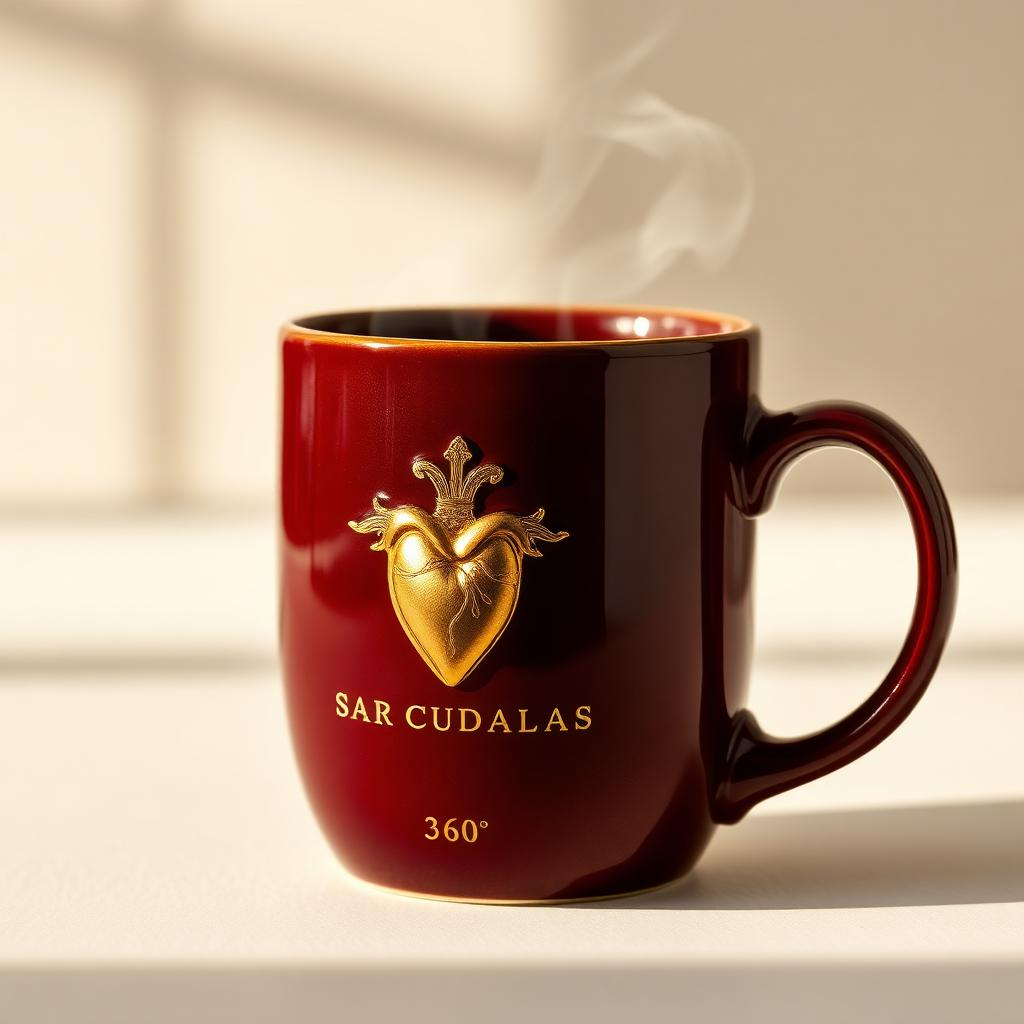
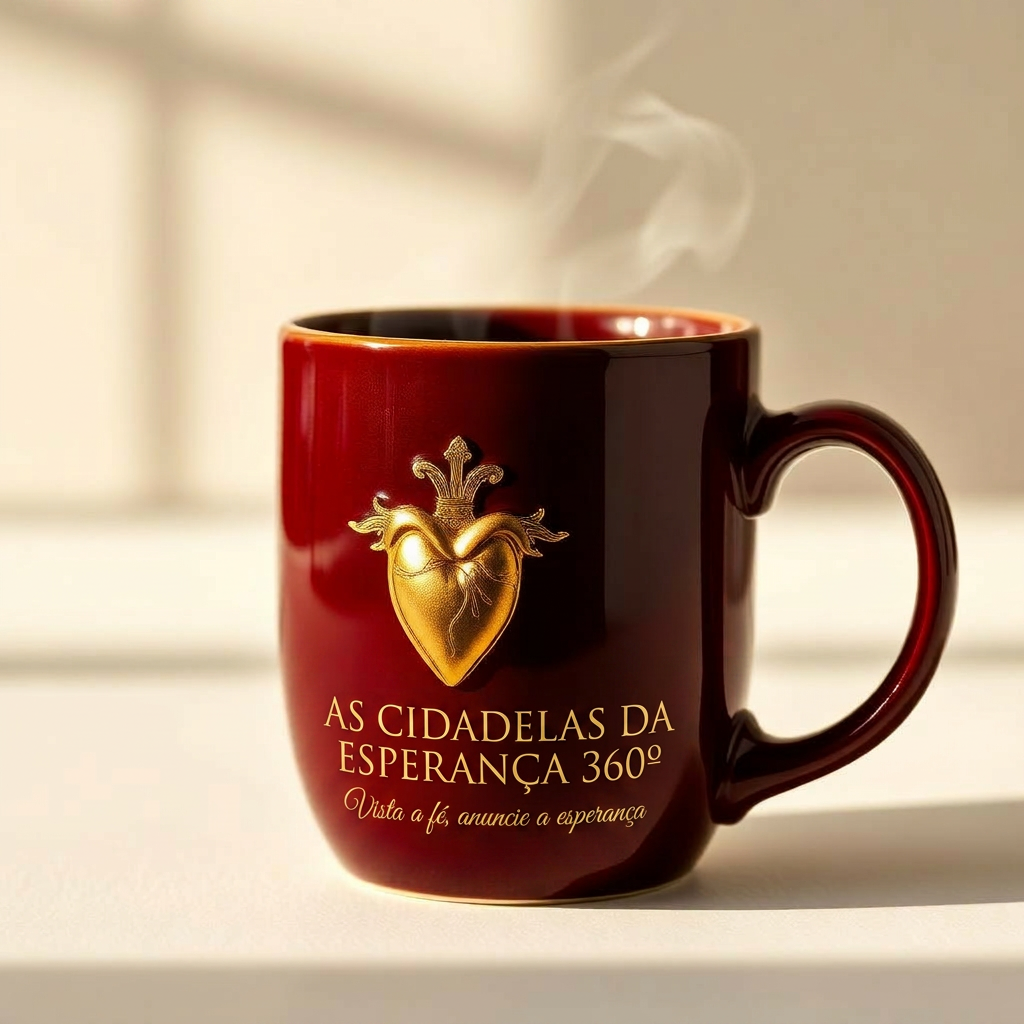
Changes

Changed region(s): [[0.3125, 0.6562, 0.6562, 0.8438], [0.3438, 0.4062, 0.5625, 0.6562]]

diff --git a/src/routes/loja.tsx b/src/routes/loja.tsx
@@ -10,18 +10,8 @@ import camisaOceania from "@/assets/produto-camisa-oceania.jpg";
 import bone from "@/assets/produto-bone.jpg";
 import chaveiro from "@/assets/produto-chaveiro.jpg";
 import livroCapa from "@/assets/livro-capa.png";
-import terco from "@/assets/produto-terco.jpg";
-import medalha from "@/assets/produto-medalha.jpg";
-import diario from "@/assets/produto-diario.jpg";
 import caneca from "@/assets/produto-caneca.jpg";
-import vela from "@/assets/produto-vela.jpg";
-import tote from "@/assets/produto-tote.jpg";
-import cartoes from "@/assets/produto-cartoes.jpg";
-import kitPeregrino from "@/assets/produto-kit-peregrino.jpg";
 import moletom from "@/assets/produto-moletom.jpg";
-import quadro from "@/assets/produto-quadro.jpg";
-import pingente from "@/assets/produto-pingente.jpg";
-import crucifixo from "@/assets/produto-crucifixo.jpg";
 
 export const Route = createFileRoute("/loja")({
   component: LojaPage,
@@ -45,24 +35,14 @@ const ALL = [
   { image: camisaOceania, name: "Camisa Continente Oceania", category: "Vestuário · Coleção 5 Continentes", price: "R$ 129", badge: "Oceania" },
   { image: bone, name: "Boné Cruz Dourada", category: "Acessórios", price: "R$ 89" },
   { image: bone, name: "Boné Cidadelas 360º", category: "Acessórios", price: "R$ 89" },
-  { image: chaveiro, name: "Chaveiro Relíquia", category: "Devocionais", price: "R$ 39" },
-  { image: medalha, name: "Medalha de São Bento", category: "Devocionais", price: "R$ 79" },
-  { image: terco, name: "Terço de Oliveira Artesanal", category: "Devocionais", price: "R$ 129" },
-  { image: crucifixo, name: "Crucifixo de Mesa Marmorizado", category: "Devocionais", price: "R$ 189" },
-  { image: pingente, name: "Pingente Sagrado Coração · Prata 925", category: "Devocionais · Premium", price: "R$ 249", badge: "Premium" },
+  { image: chaveiro, name: "Chaveiro Relíquia", category: "Acessórios", price: "R$ 39" },
   { image: moletom, name: "Moletom Cidadelas 360º", category: "Vestuário", price: "R$ 249", badge: "Inverno" },
-  { image: tote, name: "Bolsa Tote · Vista a Fé", category: "Acessórios", price: "R$ 79" },
-  { image: caneca, name: "Caneca Sagrado Coração", category: "Casa & Cotidiano", price: "R$ 59" },
-  { image: vela, name: "Vela Litúrgica Esperança 360º", category: "Casa & Cotidiano", price: "R$ 89" },
-  { image: quadro, name: "Quadro Sagrado Coração", category: "Casa & Cotidiano", price: "R$ 159" },
-  { image: diario, name: "Diário de Oração 360º", category: "Editorial", price: "R$ 99" },
-  { image: cartoes, name: "Cartões-Meditação · Deck 30", category: "Editorial", price: "R$ 49" },
+  { image: caneca, name: "Caneca As Cidadelas da Esperança 360º", category: "Casa & Cotidiano", price: "R$ 59" },
   { image: livroCapa, name: "As Cidadelas da Esperança · Impresso", category: "Livro", price: "R$ 59", badge: "Best-seller" },
   { image: livroCapa, name: "As Cidadelas da Esperança · Digital", category: "Livro · E-book", price: "R$ 29" },
-  { image: kitPeregrino, name: "Kit Peregrino · Edição Completa", category: "Kits", price: "R$ 299", badge: "Edição limitada" },
 ];
 
-const FILTERS = ["Todos", "Vestuário", "Acessórios", "Devocionais", "Casa & Cotidiano", "Editorial", "Livro", "Kits"];
+const FILTERS = ["Todos", "Vestuário", "Acessórios", "Casa & Cotidiano", "Livro"];
 
 function LojaPage() {
   return (
